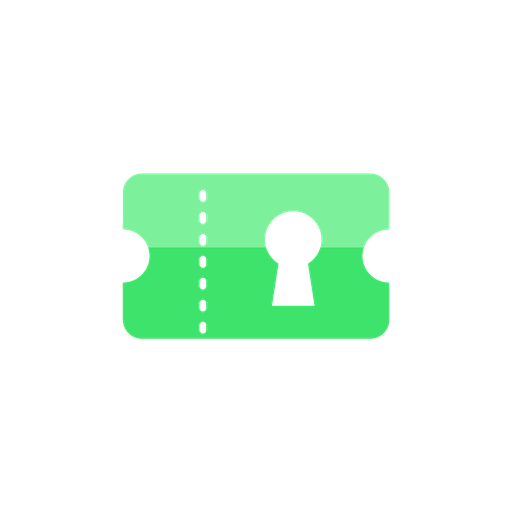
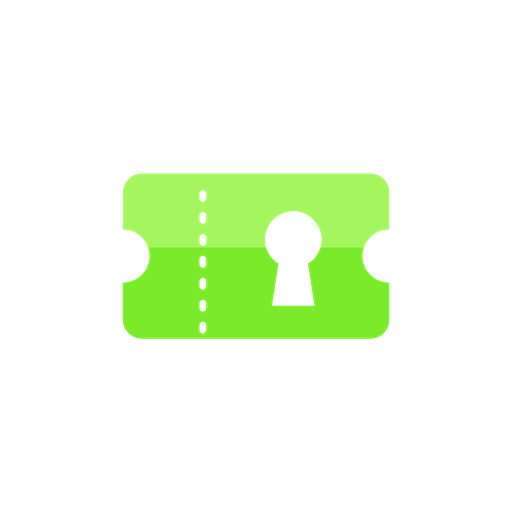
Neon lime green (Color Rush style) on navy
The brand / button / to-win / win green is now a bright neon lime
(#7BEA2B) instead of a softer green; icon updated to match.

Claude-Session: https://claude.ai/code/session_01WsUMHT8uwzP9m6FpyeoY5P

Changed region(s): [[0.2188, 0.3125, 0.7812, 0.6875]]

diff --git a/src/theme.ts b/src/theme.ts
@@ -1,4 +1,4 @@
-// BetKeeper palette: bright and fun. Deep navy with electric green and sky blue.
+// BetKeeper palette: bright and fun. Deep navy with neon lime green and sky blue.
 export const colors = {
   bg: '#061733', // deep navy
   surface: '#0D2650', // card blue
@@ -7,11 +7,11 @@ export const colors = {
   text: '#F4F8FF',
   textDim: '#A9BCD9',
   textFaint: '#7189AE',
-  accent: '#3DE36B', // electric green (brand, buttons, "to win")
-  accentDim: '#22A048',
-  brand: '#3DE36B', // electric green
+  accent: '#7BEA2B', // neon lime, Color Rush style (brand, buttons, "to win")
+  accentDim: '#4E9E14',
+  brand: '#7BEA2B', // neon lime
   sky: '#3CC4FF', // sky blue highlights
-  win: '#3DE36B',
+  win: '#7BEA2B',
   loss: '#FF5468',
   push: '#B794FF', // a push is neutral: purple, never confused with anything else
   pending: '#3CC4FF', // open tickets: sky blue
